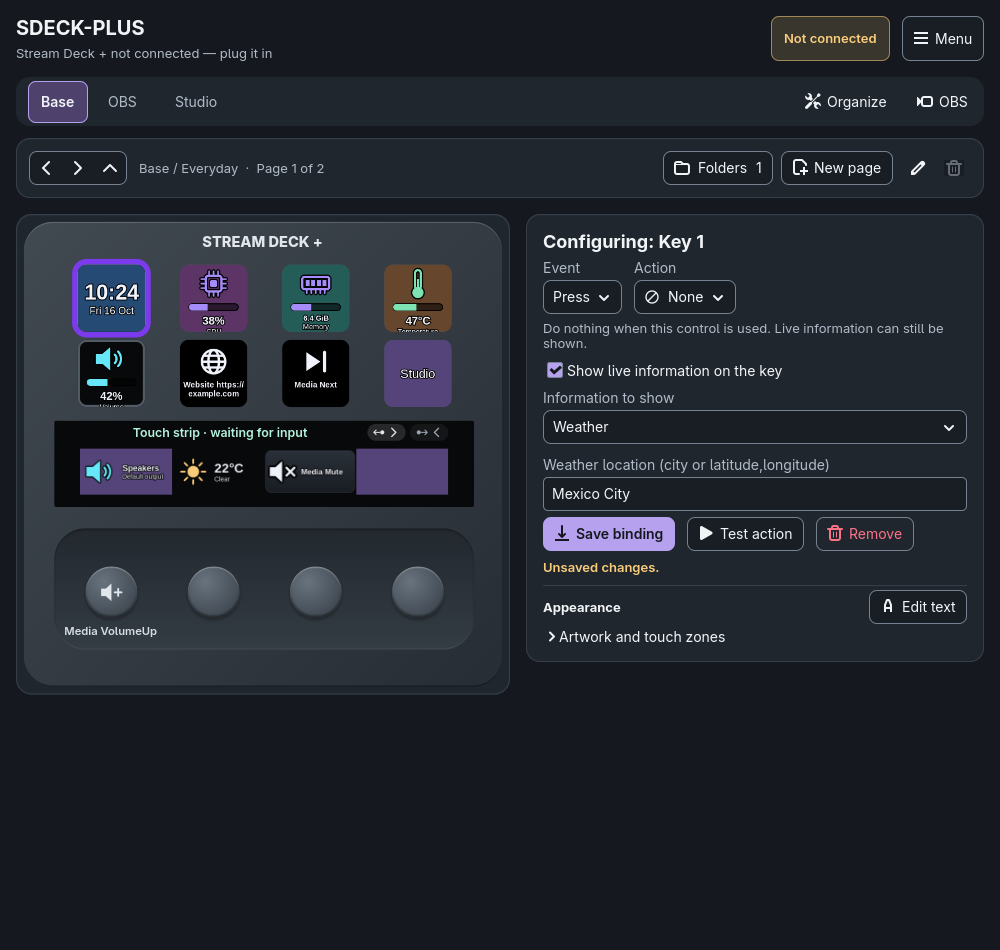
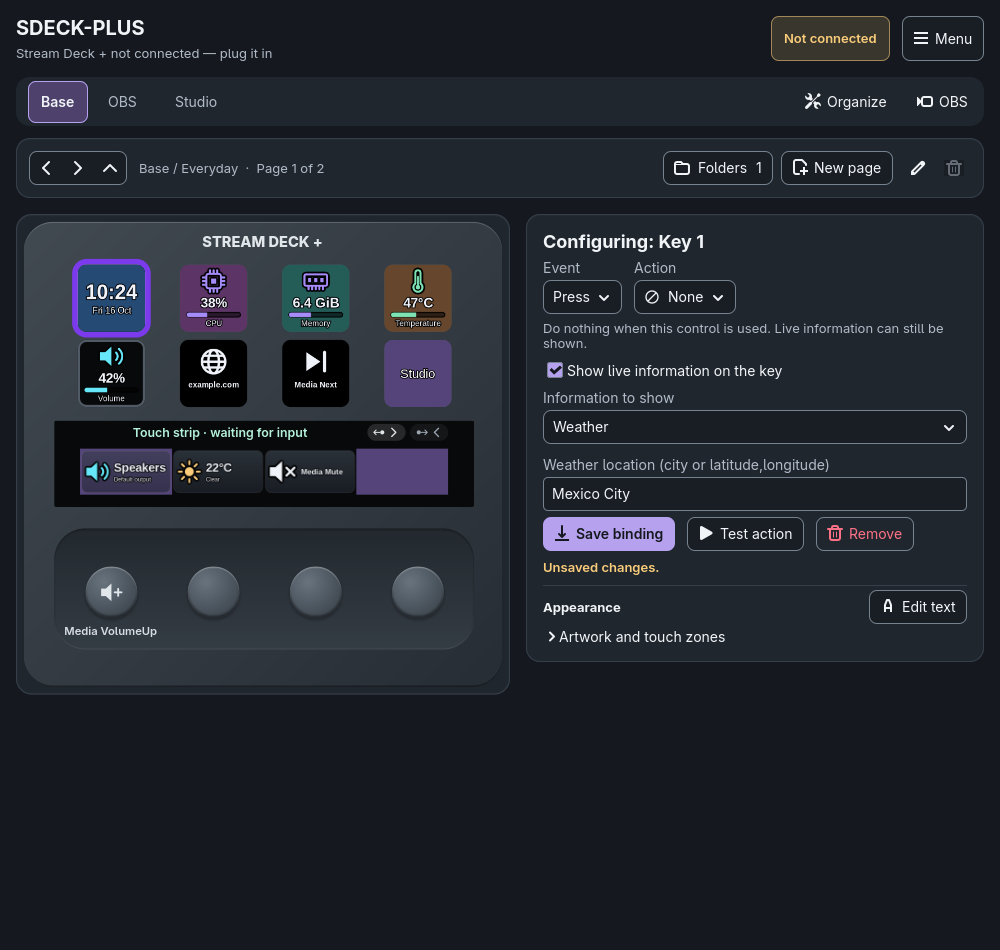
docs: describe live information tiles and regenerate screenshots

diff --git a/README.md b/README.md
@@ -121,9 +121,12 @@ exactly the page you picked. Saving a binding does not start the wait.
 ![Binding with a ten-second return to the selected page](docs/screenshots/page-return.png)
 
 **Live information on keys and dials.** Under the action of a key or a dial,
-tick **Show live information** and pick what to show. The icon, bar and text are drawn directly over the
-key's own image, with transparent empty space and no background of
-their own, and update by themselves: a
+tick **Show live information** and pick what to show. On a key the icon,
+value, bar and caption are drawn directly over the key's own image, with
+transparent empty space, and always fit inside the key; on a touch section they
+sit on the same translucent graphite tile as binding icons (icon on the left,
+value, bar and caption beside it). The icons come from the binding icon
+vocabulary in each reading's accent color. They update by themselves: a
 speaker with a volume bar (crossed out and greyed while muted), the audio output
 device, Stream Deck brightness with a bar, time and date, weather with its icon,
 CPU, memory and temperature with a bar that turns amber and red under load, or
@@ -134,8 +137,9 @@ its press binding first, then its turns, then a tap or hold on that section.
 Flick, swipes and whole-strip gestures cannot show information. Weather uses Open-Meteo through `curl`: enter a city or
 `latitude,longitude`; the lookup needs internet access and shows `--` when it
 fails. Volume and audio device use `wpctl`. The previews in the window show the
-same picture as the device. On the touch strip, transparent areas reveal the
-existing strip background instead of adding a black rectangle to the section.
+same picture as the device. On the touch strip, the strip background (or the
+section's own artwork) stays visible around and through the tile, and a section
+with a page indicator keeps that edge free for the chevron.
 
 ![Demonstration clock, CPU, memory, temperature, volume and touch-section readings](docs/screenshots/live-information.png)
 ![Live-information selector and weather location field](docs/screenshots/live-information-settings.png)

diff --git a/DESIGN.md b/DESIGN.md
@@ -242,7 +242,23 @@ popovers contain secondary content. No primary field forces horizontal scroll.
   centered or vertical text leaves the key as before. Icons are derived when
   drawing, never stored, and never replace artwork; None and unassigned
   controls stay empty; page indicators still paint last. Preview and hardware
-  use identical pixels.
+  use identical pixels. Automatic captions wrap only between whole words and
+  end in an ellipsis when a word does not fit; a website shows only its URL
+  host (`example.com`). User button text is never shortened or rewrapped.
+- **Live information:** readings use the same vocabulary (`for_glyph`): sun =
+  `brightness`, muted speaker = `mute` (grey speaker, red cross), headphones =
+  `audio-output`, recording = `record`, live = `stream`, OBS idle =
+  `obs-scene`, plus `volume`, `cloud`, `partly-cloudy`, `rain`, `snow`,
+  `storm`, `fog`, `cpu`, `memory` and `temperature`, outlined like key icons
+  and inked in the reading's accent color (cyan audio, amber sun/storm, violet
+  load, green temperature turning amber/red, grey when inactive). Time and
+  date has no icon. A key stacks icon (32-44px, shrinks first), a 24px bold
+  value, an 8px bar and 14px detail lines, centered inside a 4px margin;
+  detail lines that do not fit are left out, so nothing is cut at the edge. A
+  touch section draws the binding section tile (80% alpha; 55% over the
+  section's own artwork) with a 52px icon on the left and a 26px value, bar
+  and up to two 13px detail lines beside it; an indicated edge keeps 30px and
+  a 44px icon. Long values shrink to fit, then ellipsize.
 - **Strip gestures:** the preview strip's header line (beside the touch
   status, above the sections) carries compact badges for swipe left, swipe
   right, tap and hold, in that order: the gesture glyph (`swipe-left`,

diff --git a/odd/tasks/streamdeck-plus-live-info-icons.md b/odd/tasks/streamdeck-plus-live-info-icons.md
@@ -24,7 +24,7 @@ Follow-ups from PR #1: the base test failure and ugly wrapping of long auto capt
 - [x] L3 Live info glyphs unified with the binding icon vocabulary (shared stroke/grid; reuse `binding_icons` where an equivalent exists).
 - [x] F1 Fix `tests::touchscreen_tests::touchscreen_page_indicators_follow_selection_artwork_and_live_info` (root cause, not weakening the test).
 - [x] F2 Long auto captions on keys/sections: show URL host only and ellipsize instead of breaking mid-word.
-- [ ] D1 DESIGN.md, README.md, CHANGELOG.md, regenerated screenshots.
+- [x] D1 DESIGN.md, README.md, CHANGELOG.md, regenerated screenshots.
 
 ## Route
 Delegated direct (one writer): 2+ non-trivial files. RDD unavailable (`gentle-ai` not installed).
@@ -109,3 +109,18 @@ RED: `website_captions_show_only_the_url_host`,
 `long_captions_wrap_between_words_and_ellipsize_instead_of_breaking_words`
 (missing `url_host`/`caption_lines`), then GREEN.
 Checks: clippy ok; headless ok (323+53+2); display bin suite 53/53.
+Commit f398bf5.
+
+### D1 (delegated writer, route: delegated direct)
+DESIGN.md (caption wrapping/host rule, live information icons and key/section
+layout), README.md (live information on keys and sections), CHANGELOG.md.
+Screenshot sizes unchanged (1000x950), so docs/index.html needs no change.
+Screenshots regenerated with the documented command (12 changed); inspected
+live-information, touch-strip, main-window, main-window-light. No meaningful
+RED (documentation).
+Final checks: fmt ok; clippy ok; headless `cargo test --offline` ok
+(323+53+2); display bin suite 53/53; examples build ok; `git diff --check` ok.
+
+## Next step
+Human review of `feat/live-info-icons`; push/PR remain the user's decision.
+Optional real-hardware check: `cargo run --offline --example verify_streamdeck -- --device-controls`.

diff --git a/CHANGELOG.md b/CHANGELOG.md
@@ -25,6 +25,14 @@ tagged yet, so everything below is unreleased (package version `0.1.0`).
 
 ### Added
 
+- **Live information matches binding icons.** Live touch sections sit on the
+  same translucent section tile as binding icons, with the icon on the left and
+  value, bar and caption beside it, keeping room for page chevrons. Live
+  readings draw their icons from the binding icon vocabulary (new volume,
+  weather, CPU, memory and temperature icons), and key captions such as CPU,
+  Memory and Temperature are no longer clipped.
+- Automatic captions for website actions show only the URL host, and long
+  captions wrap between words with an ellipsis instead of breaking mid-word.
 - **Binding icons.** One icon vocabulary covers every action, including media,
   audio, mouse, text, page and touchscreen navigation and OBS. The Action menu
   shows an icon per type, preview dials show their action's icon on the knob,
